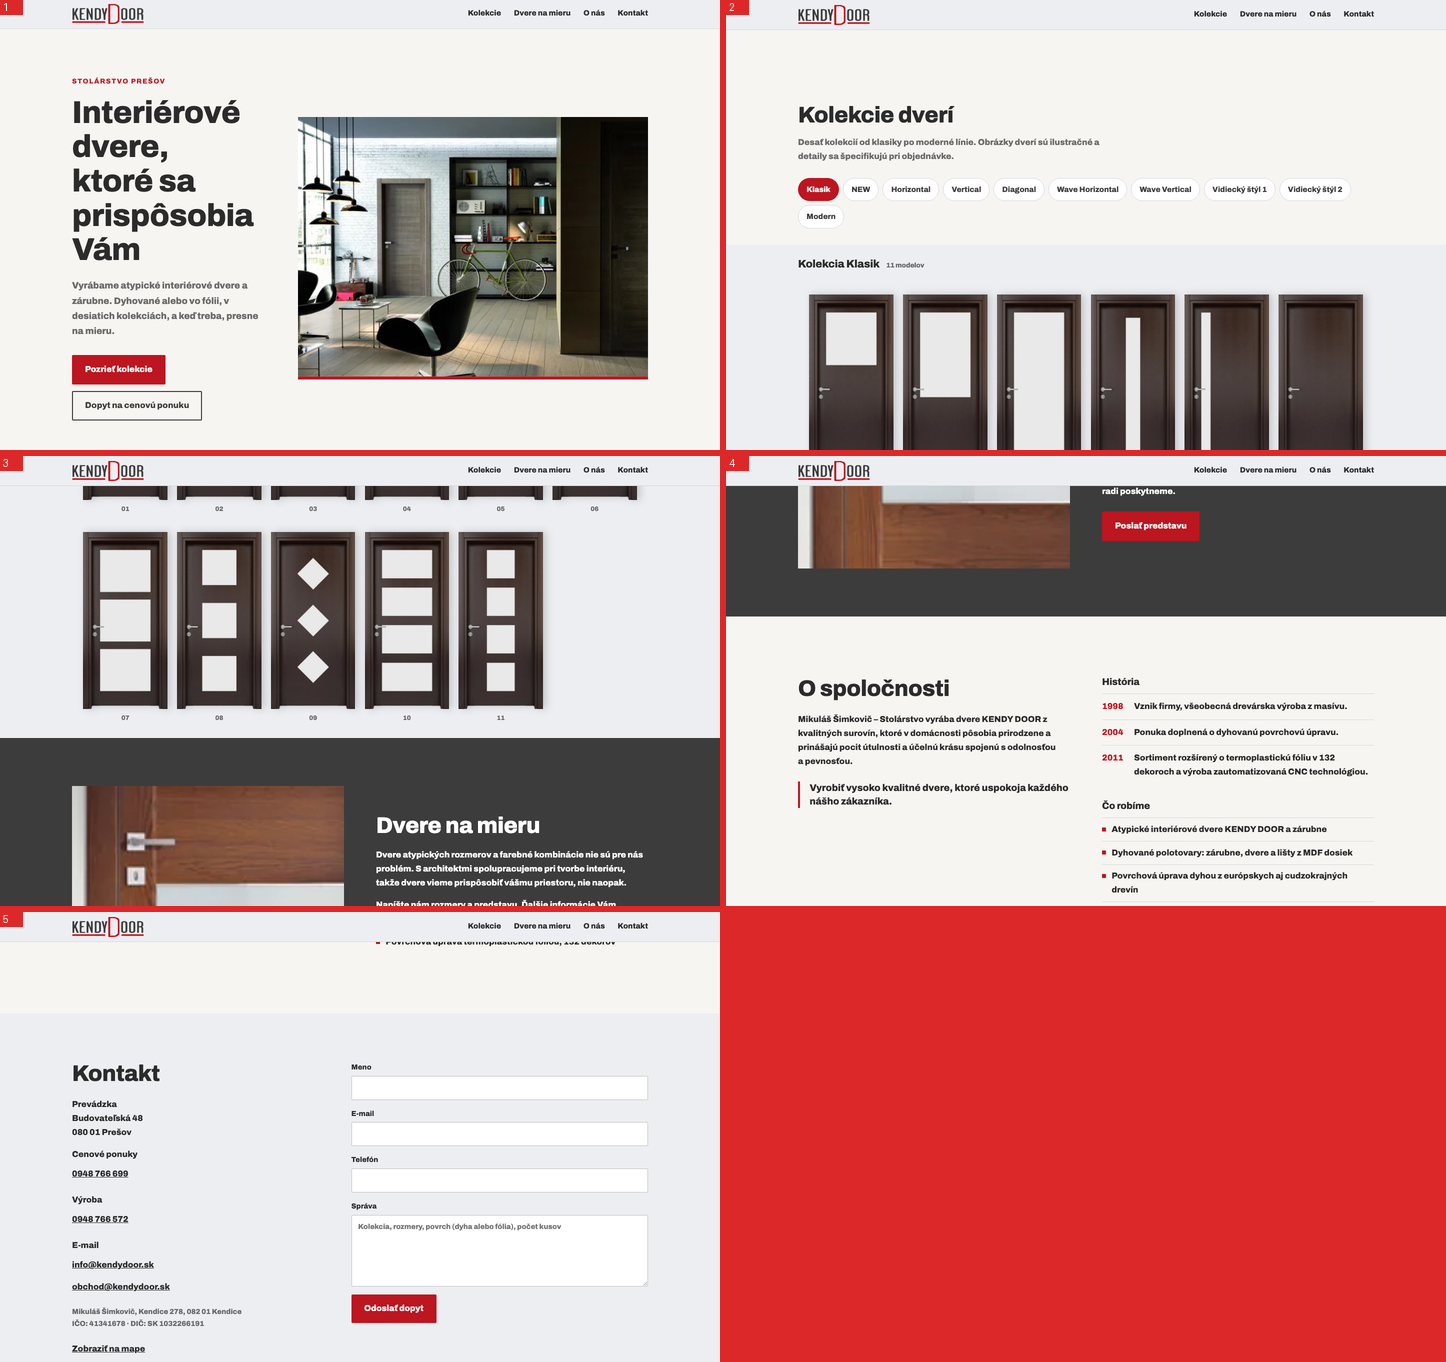
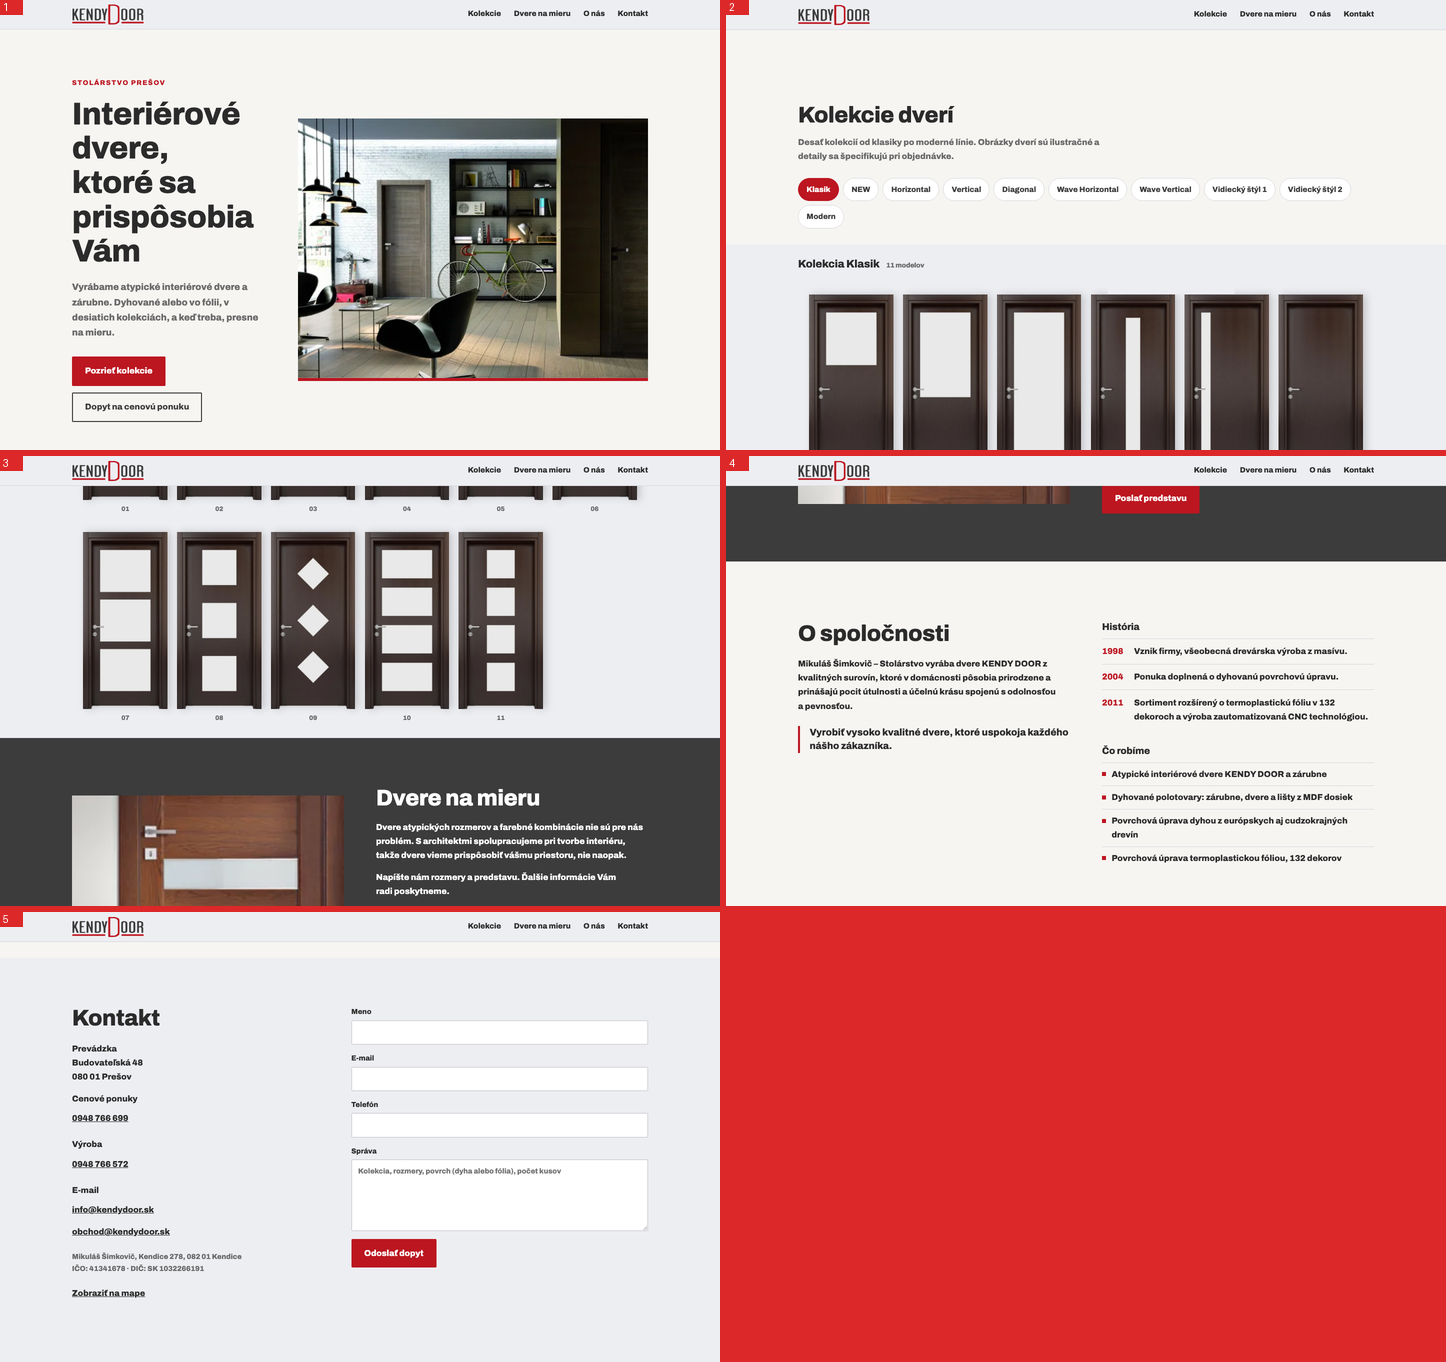
Aktualizace webu 2026-11-03 08:18

diff --git a/static/css/style.css b/static/css/style.css
@@ -111,3 +111,13 @@ blockquote { margin: 1.6rem 0 0; padding-left: 1.2rem; border-left: 4px solid va
 @media (max-width: 40rem) { .hero-f img { aspect-ratio: 16/11; } }
 .paticka a { display: inline-flex; align-items: center; min-height: 44px; } .paticka p { margin: 0; }
 .na-obraz img { width: 100%; height: auto; min-height: 0; aspect-ratio: 2/1; object-fit: cover; object-position: 100% center; }
+
+/* opravné kolo 3. 11. */
+.hero-g { grid-template-columns: 1fr 1.15fr; }
+.hero h1 { font-size: clamp(2.1rem, 4vw, 3.3rem); }
+.na-obraz img { aspect-ratio: 4/5; min-height: 420px; object-position: 88% center; border-bottom: 6px solid var(--red); }
+@media (min-width: 62rem) { .na-obraz img { aspect-ratio: auto; height: 100%; max-height: 34rem; } }
+@media (max-width: 40rem) {
+  .kolekcia .rad { grid-template-columns: repeat(3, 1fr); gap: 1rem 12px; padding: 1.4rem 1rem 0; }
+  .rad span { padding: .3rem 0 .4rem; }
+}
